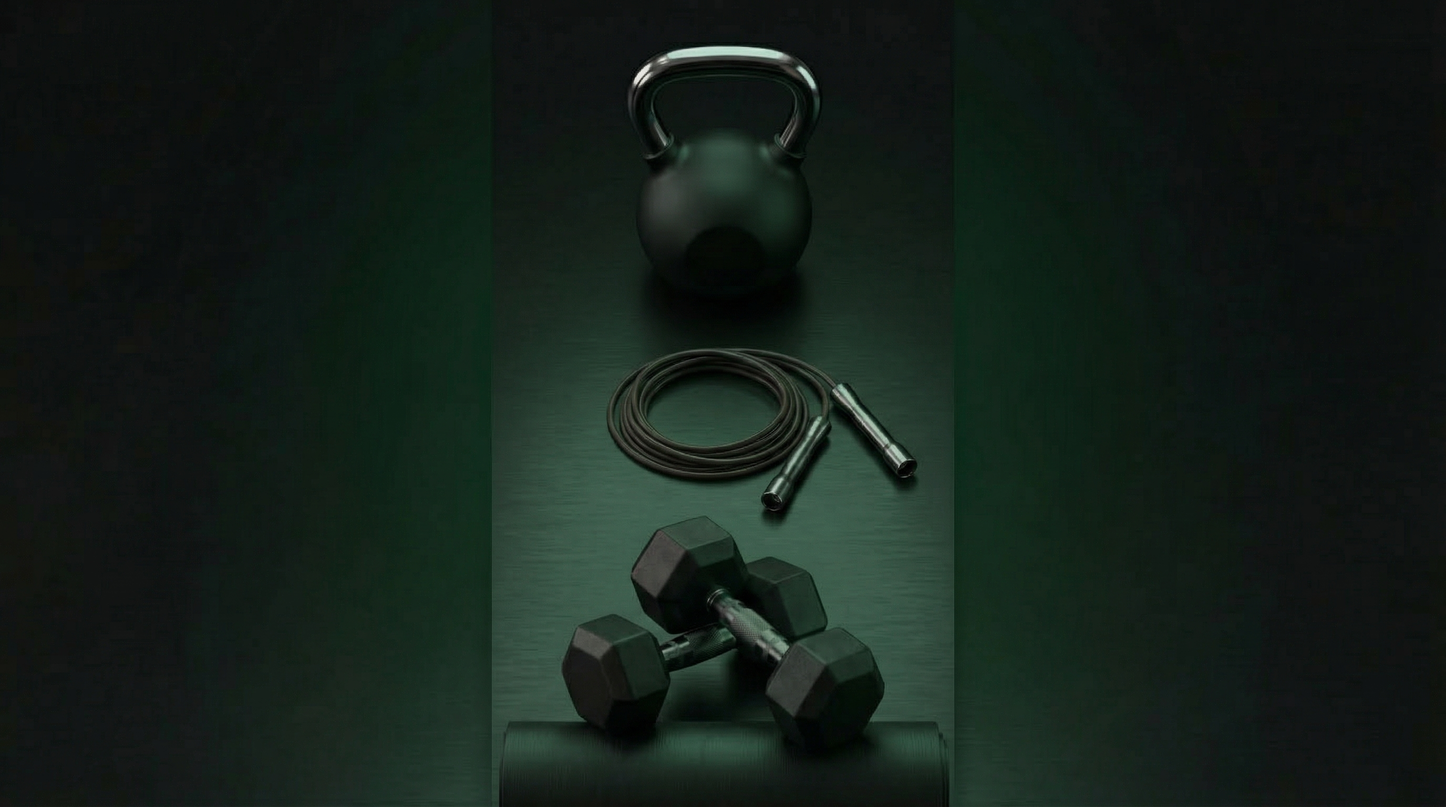
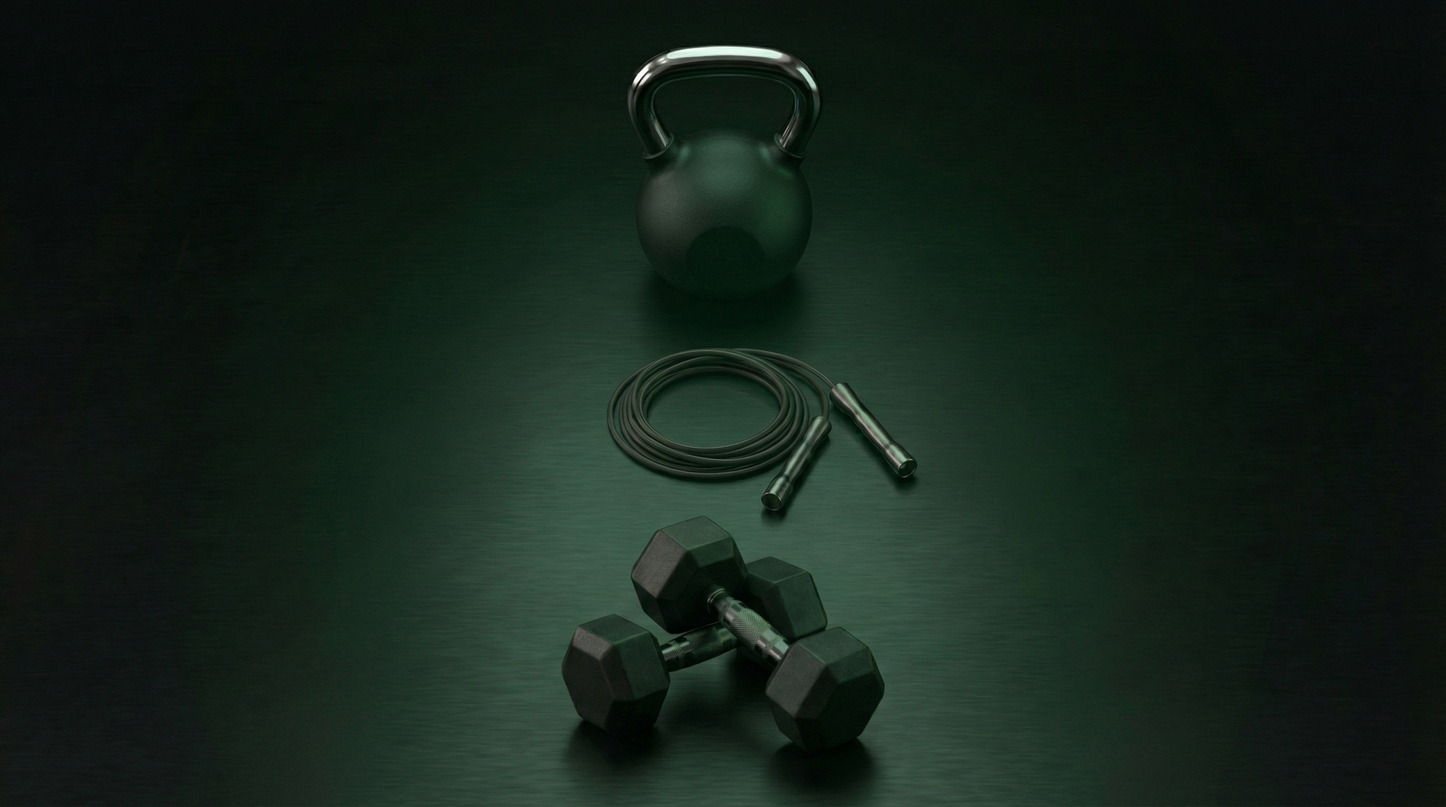
fixing deployment errors

diff --git a/src/components/Hero.jsx b/src/components/Hero.jsx
@@ -1,16 +1,55 @@
 import { Link } from "react-router-dom";
-import bgImage from "../assets/ok_remo_e_202604031403.png"; // ✅ adjust path if needed
-import bgphone from  "../assets/and_for_mobile_202604031427.png";
+import { useState, useEffect } from "react";
+import Navbar from "./Navbar";
+
+import bgImage from "../assets/ok_remo_e_202604031403.png";
+import bgphone from "../assets/and_for_mobile_202604031427.png";
+
 export default function Hero() {
-  const isMobile = window.innerWidth < 768;
+  const [isMobile, setIsMobile] = useState(window.innerWidth < 768);
+
+  useEffect(() => {
+    const handleResize = () => {
+      setIsMobile(window.innerWidth < 768);
+    };
+
+    window.addEventListener("resize", handleResize);
+    return () => window.removeEventListener("resize", handleResize);
+  }, []);
+
+  const heroStyle = {
+    position: "relative",
+    padding: isMobile ? "100px 20px" : "140px 20px",
+    textAlign: "center",
+    overflow: "hidden",
+
+    backgroundImage: `url(${isMobile ? bgphone : bgImage})`,
+    backgroundSize: "cover",
+    backgroundPosition: isMobile ? "center top" : "center",
+    backgroundRepeat: "no-repeat",
+  };
+
   return (
-    
     <section style={heroStyle}>
       
-      {/* 🔥 DARK OVERLAY */}
+      {/* ✅ NAVBAR (FIXED) */}
+      <Navbar
+        style={{
+          position: "absolute",
+          top: 0,
+          left: 0,
+          width: "100%",
+          display: "flex",
+          justifyContent: "flex-start",
+          padding: "20px 30px",
+          zIndex: 10, // 🔥 FIX CLICK ISSUE
+        }}
+      />
+
+      {/* 🔥 OVERLAY (CLICK SAFE) */}
       <div style={overlayStyle}></div>
 
-      {/* ✨ BACKGROUND GLOW */}
+      {/* ✨ GLOW */}
       <div style={glowStyle}></div>
 
       {/* 📦 CONTENT */}
@@ -43,26 +82,15 @@ export default function Hero() {
 // 🎨 STYLES
 //
 
-const heroStyle = {
-  position: "relative",
-  padding: "140px 20px",
-  textAlign: "center",
-  overflow: "hidden",
-
-  backgroundImage: `url(${isMobile ? bgphone: bgImage})`, // ✅ correct usage
-  backgroundSize: "cover",
-  backgroundPosition: "center",
-  backgroundRepeat: "no-repeat",
-};
-
 const overlayStyle = {
   position: "absolute",
   top: 0,
   left: 0,
   width: "100%",
   height: "100%",
-  background: "rgba(0, 0, 0, 0.6)", // 🔥 controls darkness
+  background: "rgba(0, 0, 0, 0.6)",
   zIndex: 0,
+  pointerEvents: "none", // 🔥 IMPORTANT FIX
 };
 
 const glowStyle = {

diff --git a/src/components/Navbar.jsx b/src/components/Navbar.jsx
@@ -1,13 +1,25 @@
 import { Link } from "react-router-dom";
 
-export default function Navbar() {
+export default function Navbar({ style }) {
   return (
-    <nav style={{ display: "flex", gap: "20px", padding: "20px" }}>
-        
-      <Link to="/">Home</Link>
-      <Link to="/gyms">Gyms</Link>
-      <Link to="/dashboard">Dashboard</Link>
-      <Link to="/planner">Planner</Link>
+    <nav
+      style={{
+        display: "flex",
+        gap: "20px",
+        padding: "20px",
+        ...style,
+      }}
+    >
+      <Link to="/" style={linkStyle}>Home</Link>
+      <Link to="/gyms" style={linkStyle}>Gyms</Link>
+      <Link to="/dashboard" style={linkStyle}>Dashboard</Link>
+      <Link to="/planner" style={linkStyle}>Planner</Link>
     </nav>
   );
 }
+
+const linkStyle = {
+  color: "#00ff88",
+  textDecoration: "none",
+  fontWeight: "500",
+};

diff --git a/src/pages/Home.jsx b/src/pages/Home.jsx
@@ -155,7 +155,9 @@ const section = {
 
 const sectionTitle = {
   fontSize: "26px",
-  marginBottom: "30px",
+  marginBottom: "50px",
+  position: "relative",
+  top: "-50px", // 🔥 moves upward
 };
 
 const subText = {

diff --git a/src/App.jsx b/src/App.jsx
@@ -13,8 +13,6 @@ function App() {
   return (
     <BrowserRouter >
 
-      <Navbar />
-
       <Routes>
         <Route
           path="/"
